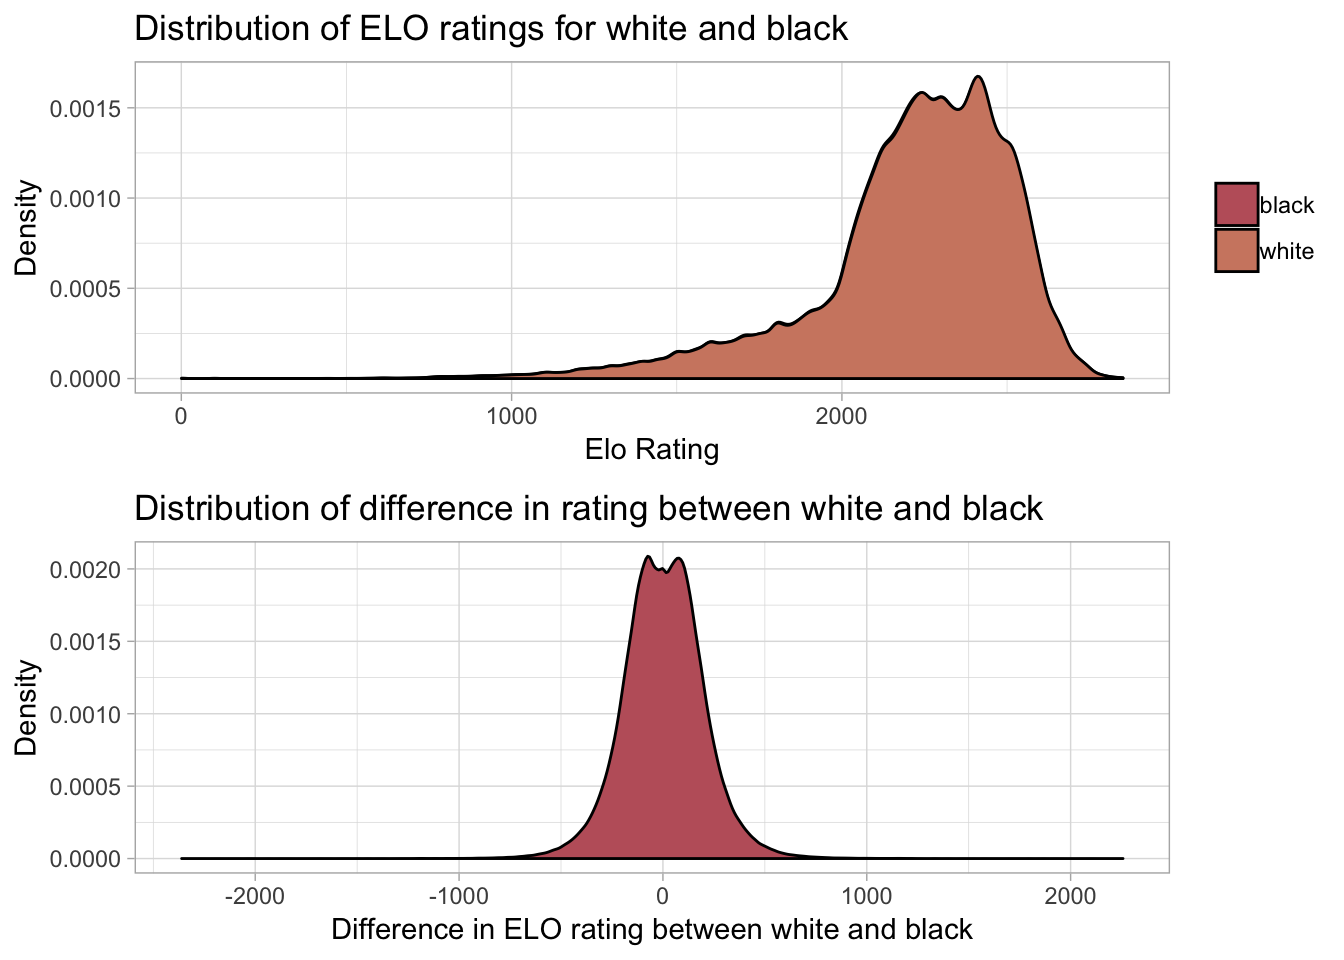
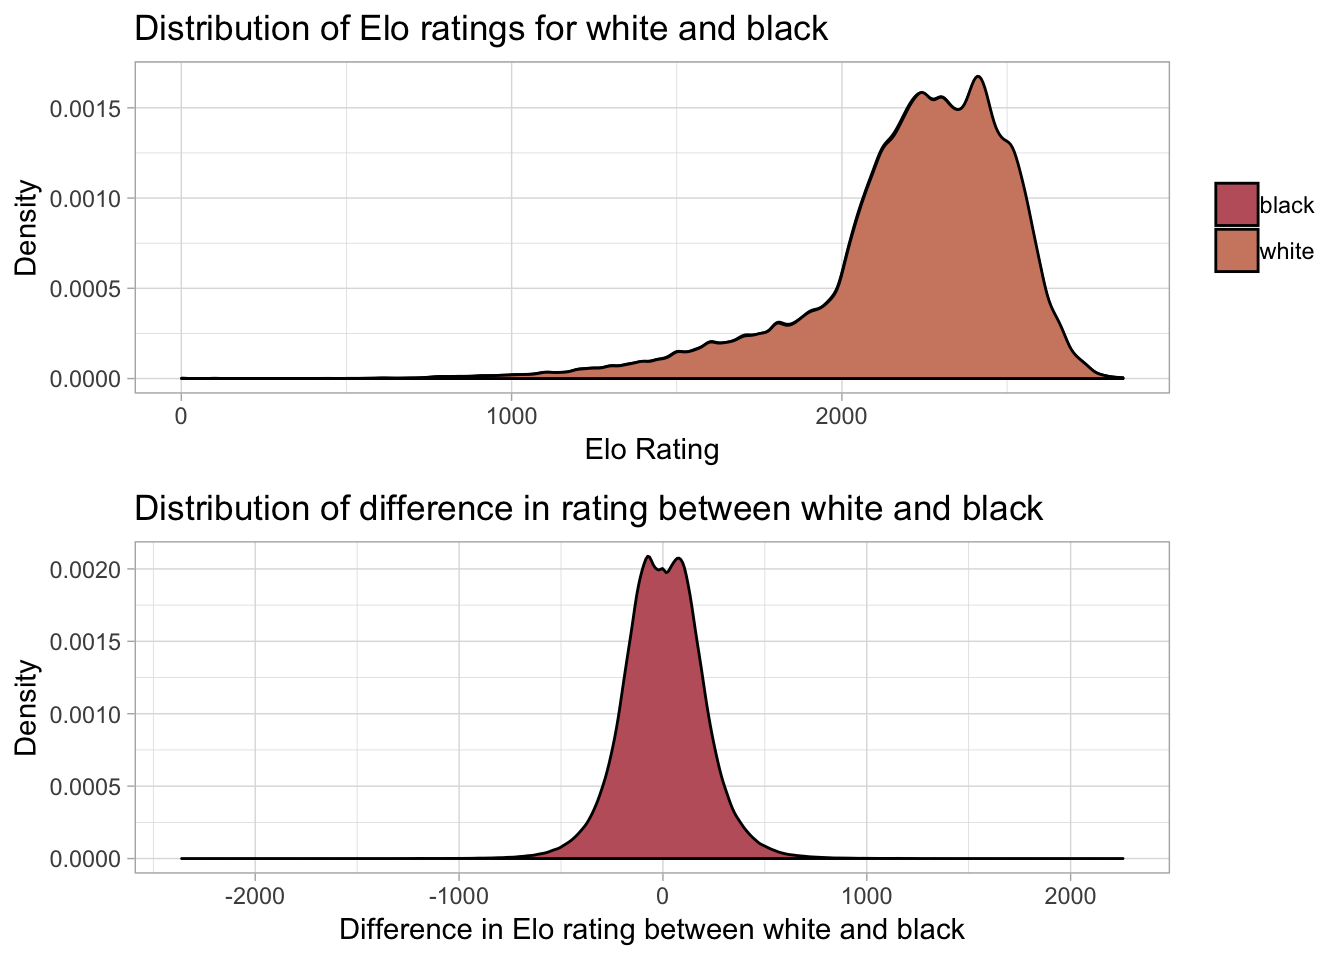
new commit

Changed region(s): [[0.25, 0.9375, 0.7188, 1.0], [0.2812, 0.0, 0.625, 0.0625]]

diff --git a/public/2018/11/chess-matters-exploring-a-chess-database/index.html b/public/2018/11/chess-matters-exploring-a-chess-database/index.html
@@ -370,7 +370,7 @@ King’s Indian
 </tr>
 </tbody>
 </table>
-<p>We have a date variable, a result variable, e.g. black wins as here, then we have <a href="https://en.wikipedia.org/wiki/Elo_rating_system">ELO</a> ratings for white and black, the total number of moves in the game, the actual moves, truncated here, the name of the opening and the name of the opening group which the opening belongs to.</p>
+<p>We have a date variable, a result variable, e.g. black wins as here, then we have <a href="https://en.wikipedia.org/wiki/Elo_rating_system">Elo</a> ratings for white and black, the total number of moves in the game, the actual moves, truncated here, the name of the opening and the name of the opening group which the opening bElongs to.</p>
 <p>There are lots of interesting questions that could be asked!</p>
 </div>
 <div id="questions" class="section level2">
@@ -398,9 +398,9 @@ King’s Indian
 </div>
 <div id="what-is-the-distribution-of-white-and-blacks-ratings-and-the-distribution-of-the-difference-between-the-ratings" class="section level3">
 <h3>What is the distribution of white and black’s ratings, and the distribution of the difference between the ratings?</h3>
-<p>The plots below show the distributions of the ELO rating for white and black, along with the distribution of the differences between the ELO ratings</p>
+<p>The plots below show the distributions of the Elo rating for white and black, along with the distribution of the differences between the Elo ratings</p>
 <p><img src="/post/2018-11-28-chess-matters-exploring-a-chess-database_files/figure-html/unnamed-chunk-4-1.png" width="672" /></p>
-<p>From the first plot we see that the distributions of the ELO ratings for white and black are the same, so it not like white is usually a better player than black. This observation, is also confirmed by the second plot, where we see that the distribution of difference in ELO ratings is centered around 0, i.e. on average the players are equally good according to ELO. Further, the distribution is also symmetric, meaning that it is equally likely that white is better than black compared to black being better than white. It is worth noticing that the distribution has very long tails, sometimes very good players plays again very bad players.</p>
+<p>From the first plot we see that the distributions of the Elo ratings for white and black are the same, so it not like white is usually a better player than black. This observation, is also confirmed by the second plot, where we see that the distribution of difference in Elo ratings is centered around 0, i.e. on average the players are equally good according to Elo. Further, the distribution is also symmetric, meaning that it is equally likely that white is better than black compared to black being better than white. It is worth noticing that the distribution has very long tails, sometimes very good players plays again very bad players.</p>
 </div>
 <div id="what-opening-groups-are-the-most-common" class="section level3">
 <h3>What opening groups are the most common?</h3>
@@ -410,9 +410,9 @@ King’s Indian
 </div>
 <div id="how-does-the-most-common-opening-groups-change-with-the-level-of-the-players" class="section level3">
 <h3>How does the most common opening groups change with the level of the players?</h3>
-<p>The plot below shows the occurrence rank of the top 40 most common opening groups by different ELO rating intervals. The six opening groups with the largest incline in ranking and the six opening groups with the largest decline in rank have been highlighted.</p>
+<p>The plot below shows the occurrence rank of the top 40 most common opening groups by different Elo rating intervals. The six opening groups with the largest incline in ranking and the six opening groups with the largest decline in rank have been highlighted.</p>
 <p><img src="/post/2018-11-28-chess-matters-exploring-a-chess-database_files/figure-html/unnamed-chunk-7-1.png" width="672" /></p>
-<p>There are lots of insights to be made from the plot above. First of all we notice that the QGD Slav and Nimzo-Indian openings become linearly more popular when the ELO rating increases. This indicated that you are more likely to use the openings the better the player you are, this might be of the cost of them being more difficult to master.</p>
+<p>There are lots of insights to be made from the plot above. First of all we notice that the QGD Slav and Nimzo-Indian openings become linearly more popular when the Elo rating increases. This indicated that you are more likely to use the openings the better the player you are, this might be of the cost of them being more difficult to master.</p>
 <p>We also see that the Scandinavian defense is popular for beginners but it is much less used by expert players. The Queen’s Indian is almost never used by beginners and intermediates but is often used by better players. The Bird’s opening is used by intermediate players but rarely used by experts.</p>
 </div>
 <div id="what-are-the-most-popular-move-sequences-for-different-opening-groups" class="section level3">
@@ -429,9 +429,9 @@ King’s Indian
 <h2>Conclusions</h2>
 <p>In this post we took a look at a large chess database.</p>
 <p>We saw that the number of chess games per month were upward trending. We found out that most games are won by white, however, the results are more evenly distributed than initially thought, at least by me.</p>
-<p>We showed that the distribution of ELO rating are the same for both white and black, and that the distribution of differences in ELO ratings is symmetric and centered around zero.</p>
+<p>We showed that the distribution of Elo rating are the same for both white and black, and that the distribution of differences in Elo ratings is symmetric and centered around zero.</p>
 <p>A bar chart showed that the most popular opening group was the Sicilian and that the choice of opening is spread between many different types of openings.</p>
-<p>Then we found out that the QGD Slav and Nimzo-Indian opening becomes more and more popular with higher ELO ratings, and that the Scandinavian defense is popular for beginners but not for experts.</p>
+<p>Then we found out that the QGD Slav and Nimzo-Indian opening becomes more and more popular with higher Elo ratings, and that the Scandinavian defense is popular for beginners but not for experts.</p>
 <p>Lastly, we explored some of the starting moves from different openings using a shiny app.</p>
 <p>Feel free to comment below, or catch me on <a href="https://www.linkedin.com/in/rasmusfiskerbang/">LinkedIn</a> or <a href="https://twitter.com/FiskerBang">twitter</a>.</p>
 </div>

diff --git a/content/post/2018-11-28-chess-matters-exploring-a-chess-database.html b/content/post/2018-11-28-chess-matters-exploring-a-chess-database.html
@@ -87,7 +87,7 @@ King’s Indian
 </tr>
 </tbody>
 </table>
-<p>We have a date variable, a result variable, e.g. black wins as here, then we have <a href="https://en.wikipedia.org/wiki/Elo_rating_system">ELO</a> ratings for white and black, the total number of moves in the game, the actual moves, truncated here, the name of the opening and the name of the opening group which the opening belongs to.</p>
+<p>We have a date variable, a result variable, e.g. black wins as here, then we have <a href="https://en.wikipedia.org/wiki/Elo_rating_system">Elo</a> ratings for white and black, the total number of moves in the game, the actual moves, truncated here, the name of the opening and the name of the opening group which the opening bElongs to.</p>
 <p>There are lots of interesting questions that could be asked!</p>
 </div>
 <div id="questions" class="section level2">
@@ -115,9 +115,9 @@ King’s Indian
 </div>
 <div id="what-is-the-distribution-of-white-and-blacks-ratings-and-the-distribution-of-the-difference-between-the-ratings" class="section level3">
 <h3>What is the distribution of white and black’s ratings, and the distribution of the difference between the ratings?</h3>
-<p>The plots below show the distributions of the ELO rating for white and black, along with the distribution of the differences between the ELO ratings</p>
+<p>The plots below show the distributions of the Elo rating for white and black, along with the distribution of the differences between the Elo ratings</p>
 <p><img src="/post/2018-11-28-chess-matters-exploring-a-chess-database_files/figure-html/unnamed-chunk-4-1.png" width="672" /></p>
-<p>From the first plot we see that the distributions of the ELO ratings for white and black are the same, so it not like white is usually a better player than black. This observation, is also confirmed by the second plot, where we see that the distribution of difference in ELO ratings is centered around 0, i.e. on average the players are equally good according to ELO. Further, the distribution is also symmetric, meaning that it is equally likely that white is better than black compared to black being better than white. It is worth noticing that the distribution has very long tails, sometimes very good players plays again very bad players.</p>
+<p>From the first plot we see that the distributions of the Elo ratings for white and black are the same, so it not like white is usually a better player than black. This observation, is also confirmed by the second plot, where we see that the distribution of difference in Elo ratings is centered around 0, i.e. on average the players are equally good according to Elo. Further, the distribution is also symmetric, meaning that it is equally likely that white is better than black compared to black being better than white. It is worth noticing that the distribution has very long tails, sometimes very good players plays again very bad players.</p>
 </div>
 <div id="what-opening-groups-are-the-most-common" class="section level3">
 <h3>What opening groups are the most common?</h3>
@@ -127,9 +127,9 @@ King’s Indian
 </div>
 <div id="how-does-the-most-common-opening-groups-change-with-the-level-of-the-players" class="section level3">
 <h3>How does the most common opening groups change with the level of the players?</h3>
-<p>The plot below shows the occurrence rank of the top 40 most common opening groups by different ELO rating intervals. The six opening groups with the largest incline in ranking and the six opening groups with the largest decline in rank have been highlighted.</p>
+<p>The plot below shows the occurrence rank of the top 40 most common opening groups by different Elo rating intervals. The six opening groups with the largest incline in ranking and the six opening groups with the largest decline in rank have been highlighted.</p>
 <p><img src="/post/2018-11-28-chess-matters-exploring-a-chess-database_files/figure-html/unnamed-chunk-7-1.png" width="672" /></p>
-<p>There are lots of insights to be made from the plot above. First of all we notice that the QGD Slav and Nimzo-Indian openings become linearly more popular when the ELO rating increases. This indicated that you are more likely to use the openings the better the player you are, this might be of the cost of them being more difficult to master.</p>
+<p>There are lots of insights to be made from the plot above. First of all we notice that the QGD Slav and Nimzo-Indian openings become linearly more popular when the Elo rating increases. This indicated that you are more likely to use the openings the better the player you are, this might be of the cost of them being more difficult to master.</p>
 <p>We also see that the Scandinavian defense is popular for beginners but it is much less used by expert players. The Queen’s Indian is almost never used by beginners and intermediates but is often used by better players. The Bird’s opening is used by intermediate players but rarely used by experts.</p>
 </div>
 <div id="what-are-the-most-popular-move-sequences-for-different-opening-groups" class="section level3">
@@ -146,9 +146,9 @@ King’s Indian
 <h2>Conclusions</h2>
 <p>In this post we took a look at a large chess database.</p>
 <p>We saw that the number of chess games per month were upward trending. We found out that most games are won by white, however, the results are more evenly distributed than initially thought, at least by me.</p>
-<p>We showed that the distribution of ELO rating are the same for both white and black, and that the distribution of differences in ELO ratings is symmetric and centered around zero.</p>
+<p>We showed that the distribution of Elo rating are the same for both white and black, and that the distribution of differences in Elo ratings is symmetric and centered around zero.</p>
 <p>A bar chart showed that the most popular opening group was the Sicilian and that the choice of opening is spread between many different types of openings.</p>
-<p>Then we found out that the QGD Slav and Nimzo-Indian opening becomes more and more popular with higher ELO ratings, and that the Scandinavian defense is popular for beginners but not for experts.</p>
+<p>Then we found out that the QGD Slav and Nimzo-Indian opening becomes more and more popular with higher Elo ratings, and that the Scandinavian defense is popular for beginners but not for experts.</p>
 <p>Lastly, we explored some of the starting moves from different openings using a shiny app.</p>
 <p>Feel free to comment below, or catch me on <a href="https://www.linkedin.com/in/rasmusfiskerbang/">LinkedIn</a> or <a href="https://twitter.com/FiskerBang">twitter</a>.</p>
 </div>
